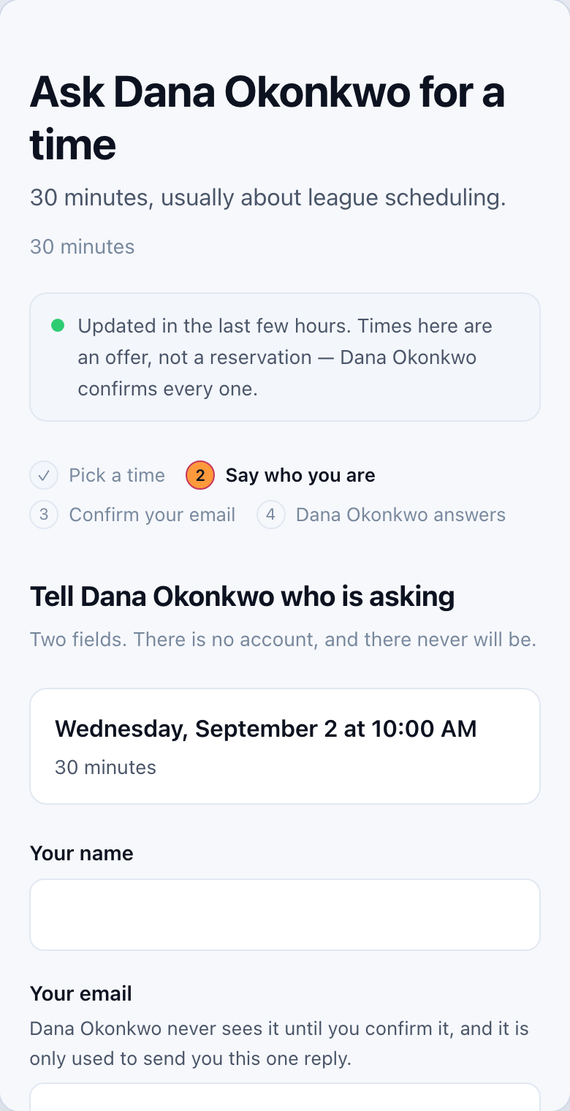
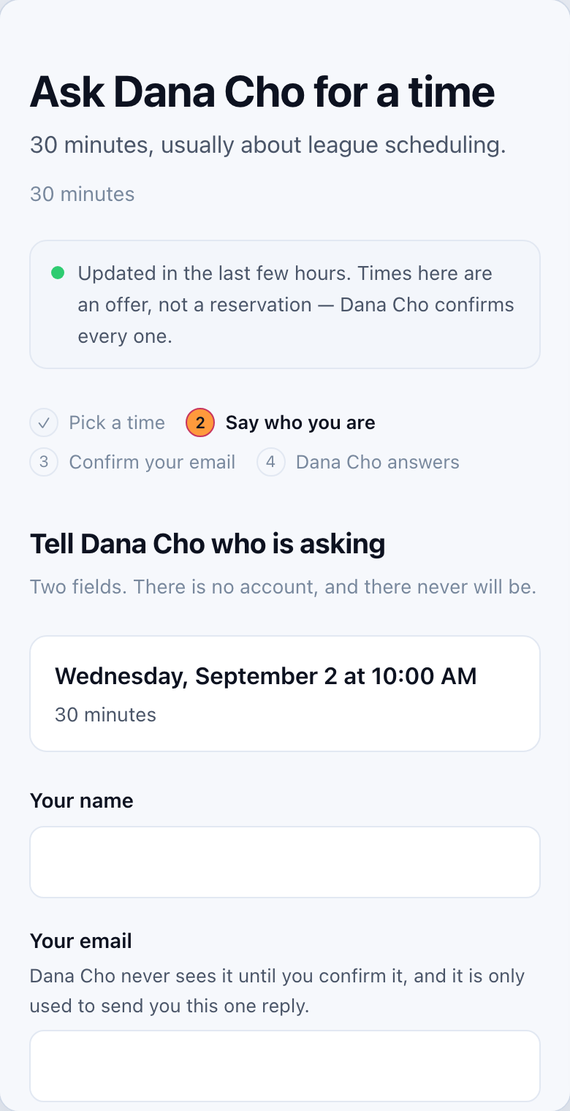
AskWhen.me page: the Mac rendering, no disclaimer, a name that fits
Matt, 17 Sept: the owner's side shows the Mac sheet beside the iPhone
screens; the synthetic-configuration note goes; the requester frames use
Dana Cho, whose page title sits on one line at phone width.

diff --git a/docs/askwhen.html b/docs/askwhen.html
@@ -89,6 +89,9 @@
   .phones figure{margin:0;text-align:center;max-width:260px}
   .phones img{width:260px;max-width:44vw;height:auto;border-radius:22px;border:1px solid var(--line);box-shadow:var(--shadow)}
   .phones figcaption{color:var(--dim);font-size:13px;margin-top:12px}
+  .mac{margin:34px 0 0;text-align:center}
+  .mac img{display:block;max-width:100%;width:940px;height:auto;margin:0 auto;border-radius:12px;border:1px solid var(--line);box-shadow:var(--shadow)}
+  .mac figcaption{color:var(--dim);font-size:13px;margin-top:12px}
 
   /* The requester's side: four states of the page, at phone width, as a strip. */
   .screens{display:grid;grid-template-columns:repeat(4,1fr);gap:16px;margin-top:34px}
@@ -182,6 +185,13 @@
         <figcaption>Live. The address is yours, and the switch is right there.</figcaption>
       </figure>
     </div>
+    <figure class="mac">
+      <picture>
+        <source srcset="img/askwhen-mac-dark.png" media="(prefers-color-scheme: dark)">
+        <img src="img/askwhen-mac-light.png" width="940" height="700" alt="On the Mac, the same setup as a sheet over Calendar Mirror's Manage Mirrors window: the AskWhen.me mark, 'A page where people can ask for a time', the three points, and a Continue button.">
+      </picture>
+      <figcaption>On the Mac it is the same setup, as a sheet over Manage Mirrors. One subscription covers iPhone, iPad and Mac.</figcaption>
+    </figure>
   </section>
 
   <section id="theirs">
@@ -194,7 +204,7 @@
       <figure>
         <picture>
           <source srcset="img/askwhen-req-pick-dark.png" media="(prefers-color-scheme: dark)">
-          <img src="img/askwhen-req-pick-light.png" alt="The request page at askwhen.me: 'Ask Dana Okonkwo for a time', a freshness note saying the times are an offer, not a reservation, and a week of times to pick from, shown in the visitor's time zone.">
+          <img src="img/askwhen-req-pick-light.png" alt="The request page at askwhen.me: 'Ask Dana Cho for a time', a freshness note saying the times are an offer, not a reservation, and a week of times to pick from, shown in the visitor's time zone.">
         </picture>
         <figcaption>1 &middot; Pick a time, in your own zone.</figcaption>
       </figure>
@@ -215,14 +225,11 @@
       <figure>
         <picture>
           <source srcset="img/askwhen-req-accepted-dark.png" media="(prefers-color-scheme: dark)">
-          <img src="img/askwhen-req-accepted-light.png" alt="Accepted: a green check, 'Dana Okonkwo accepted, and has written the event into their calendar. The invitation is on its way to you by email.'">
+          <img src="img/askwhen-req-accepted-light.png" alt="Accepted: a green check, 'Dana Cho accepted, and has written the event into their calendar. The invitation is on its way to you by email.'">
         </picture>
         <figcaption>4 &middot; Accepted &mdash; from the owner&rsquo;s device, with a calendar file by email.</figcaption>
       </figure>
     </div>
-    <p class="muted" style="margin-top:22px;font-size:14px">Every screen on this page is from a
-      synthetic configuration &mdash; invented calendars, an invented owner, an invented visitor.
-      No real person appears.</p>
   </section>
 
   <section id="holds">
